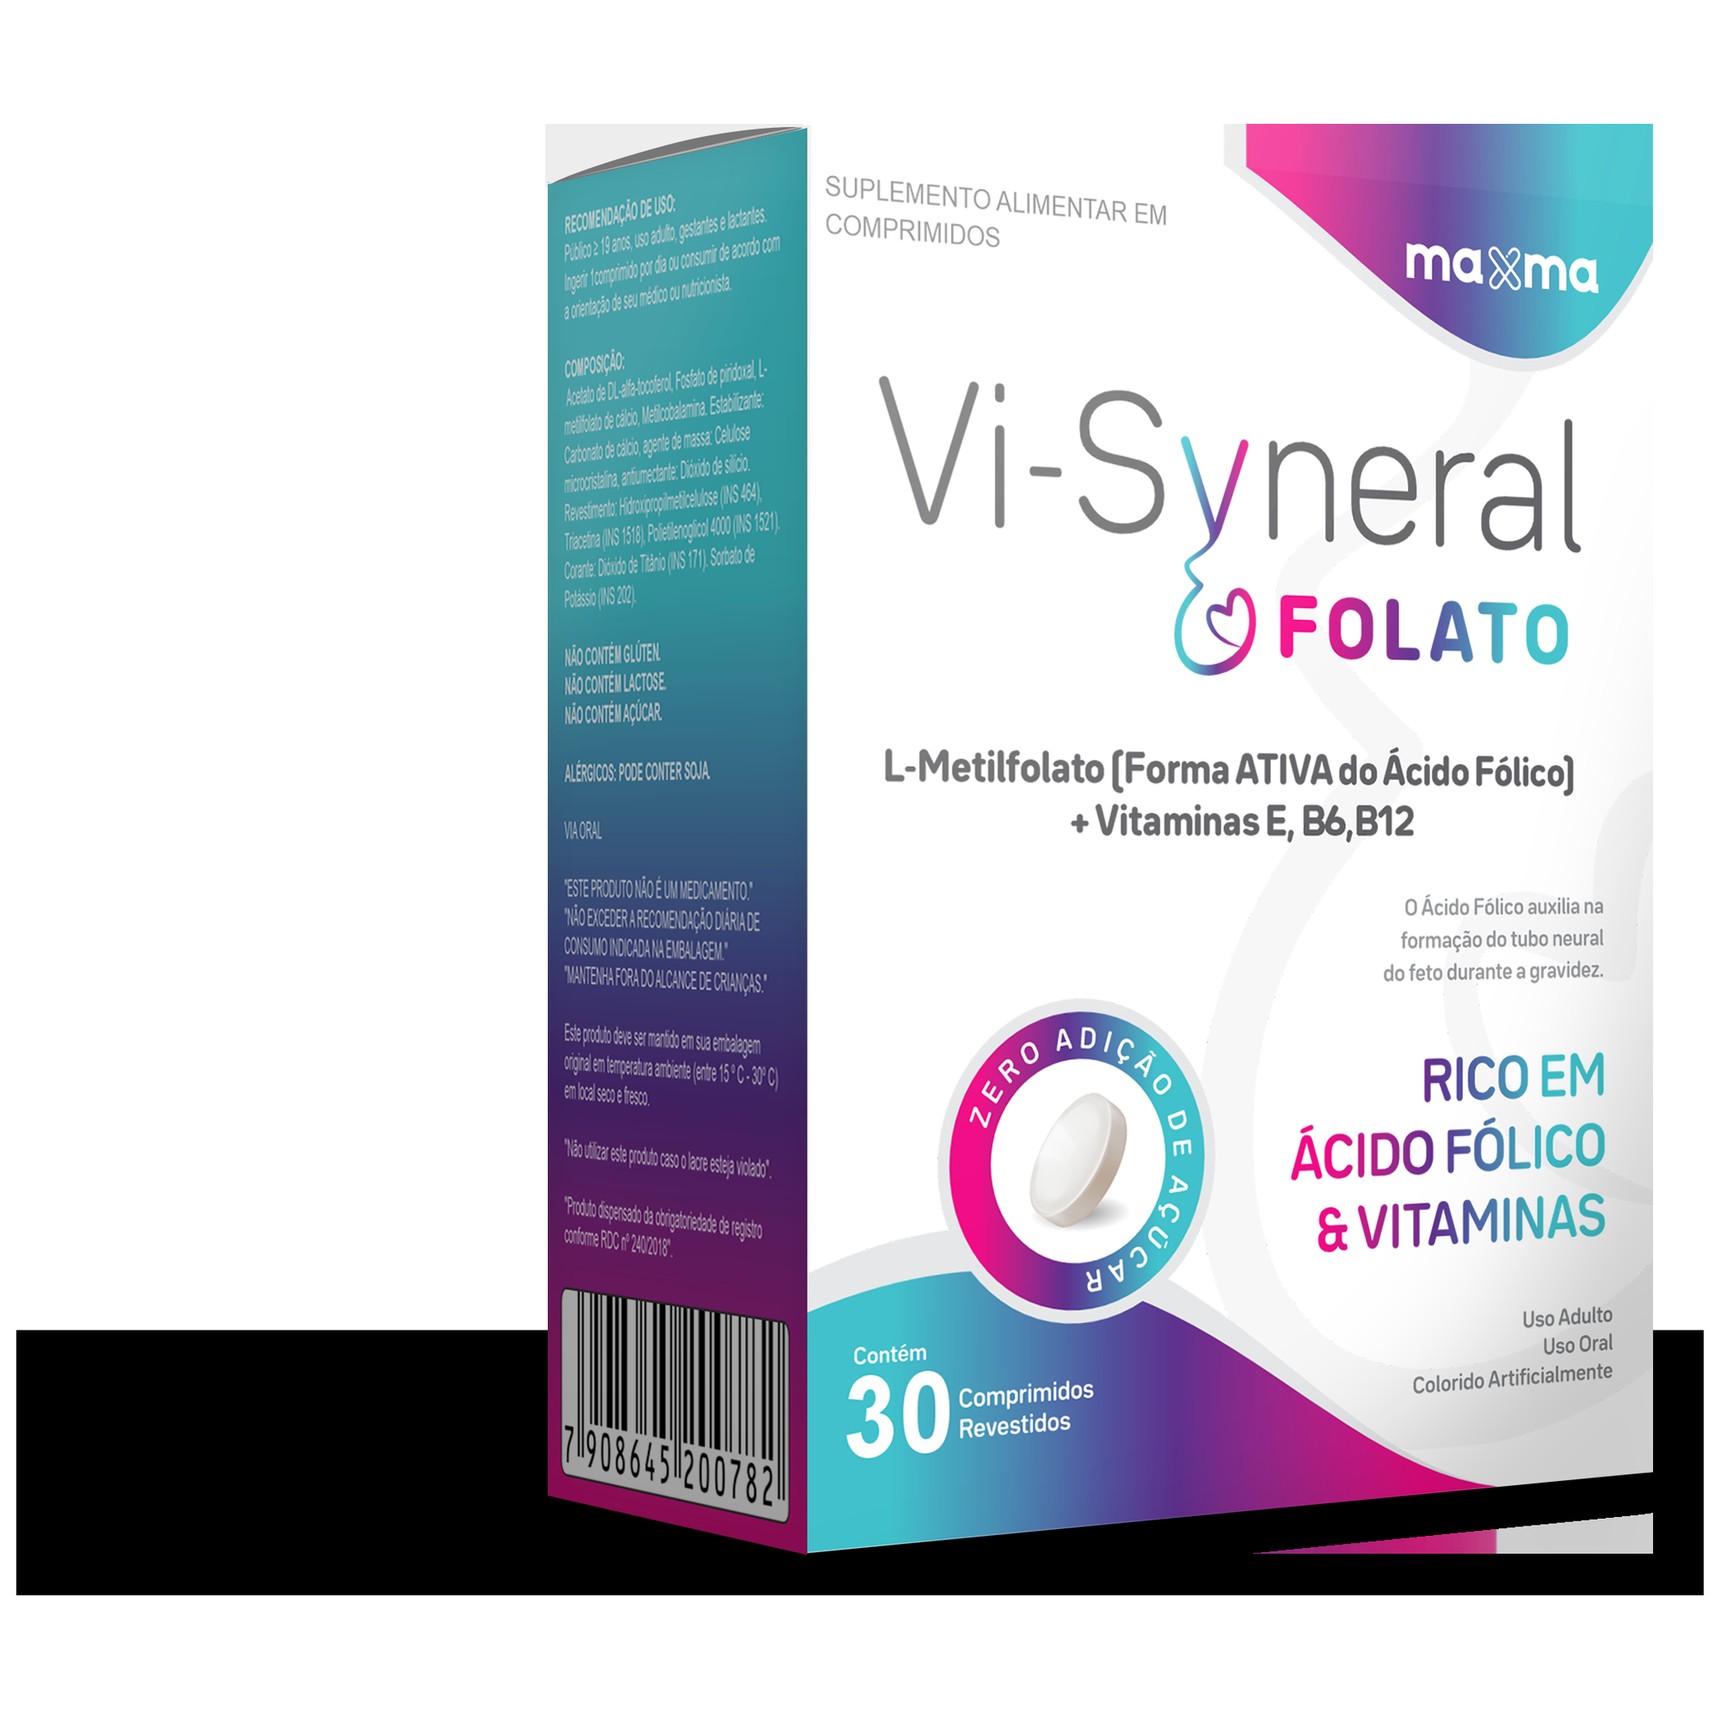
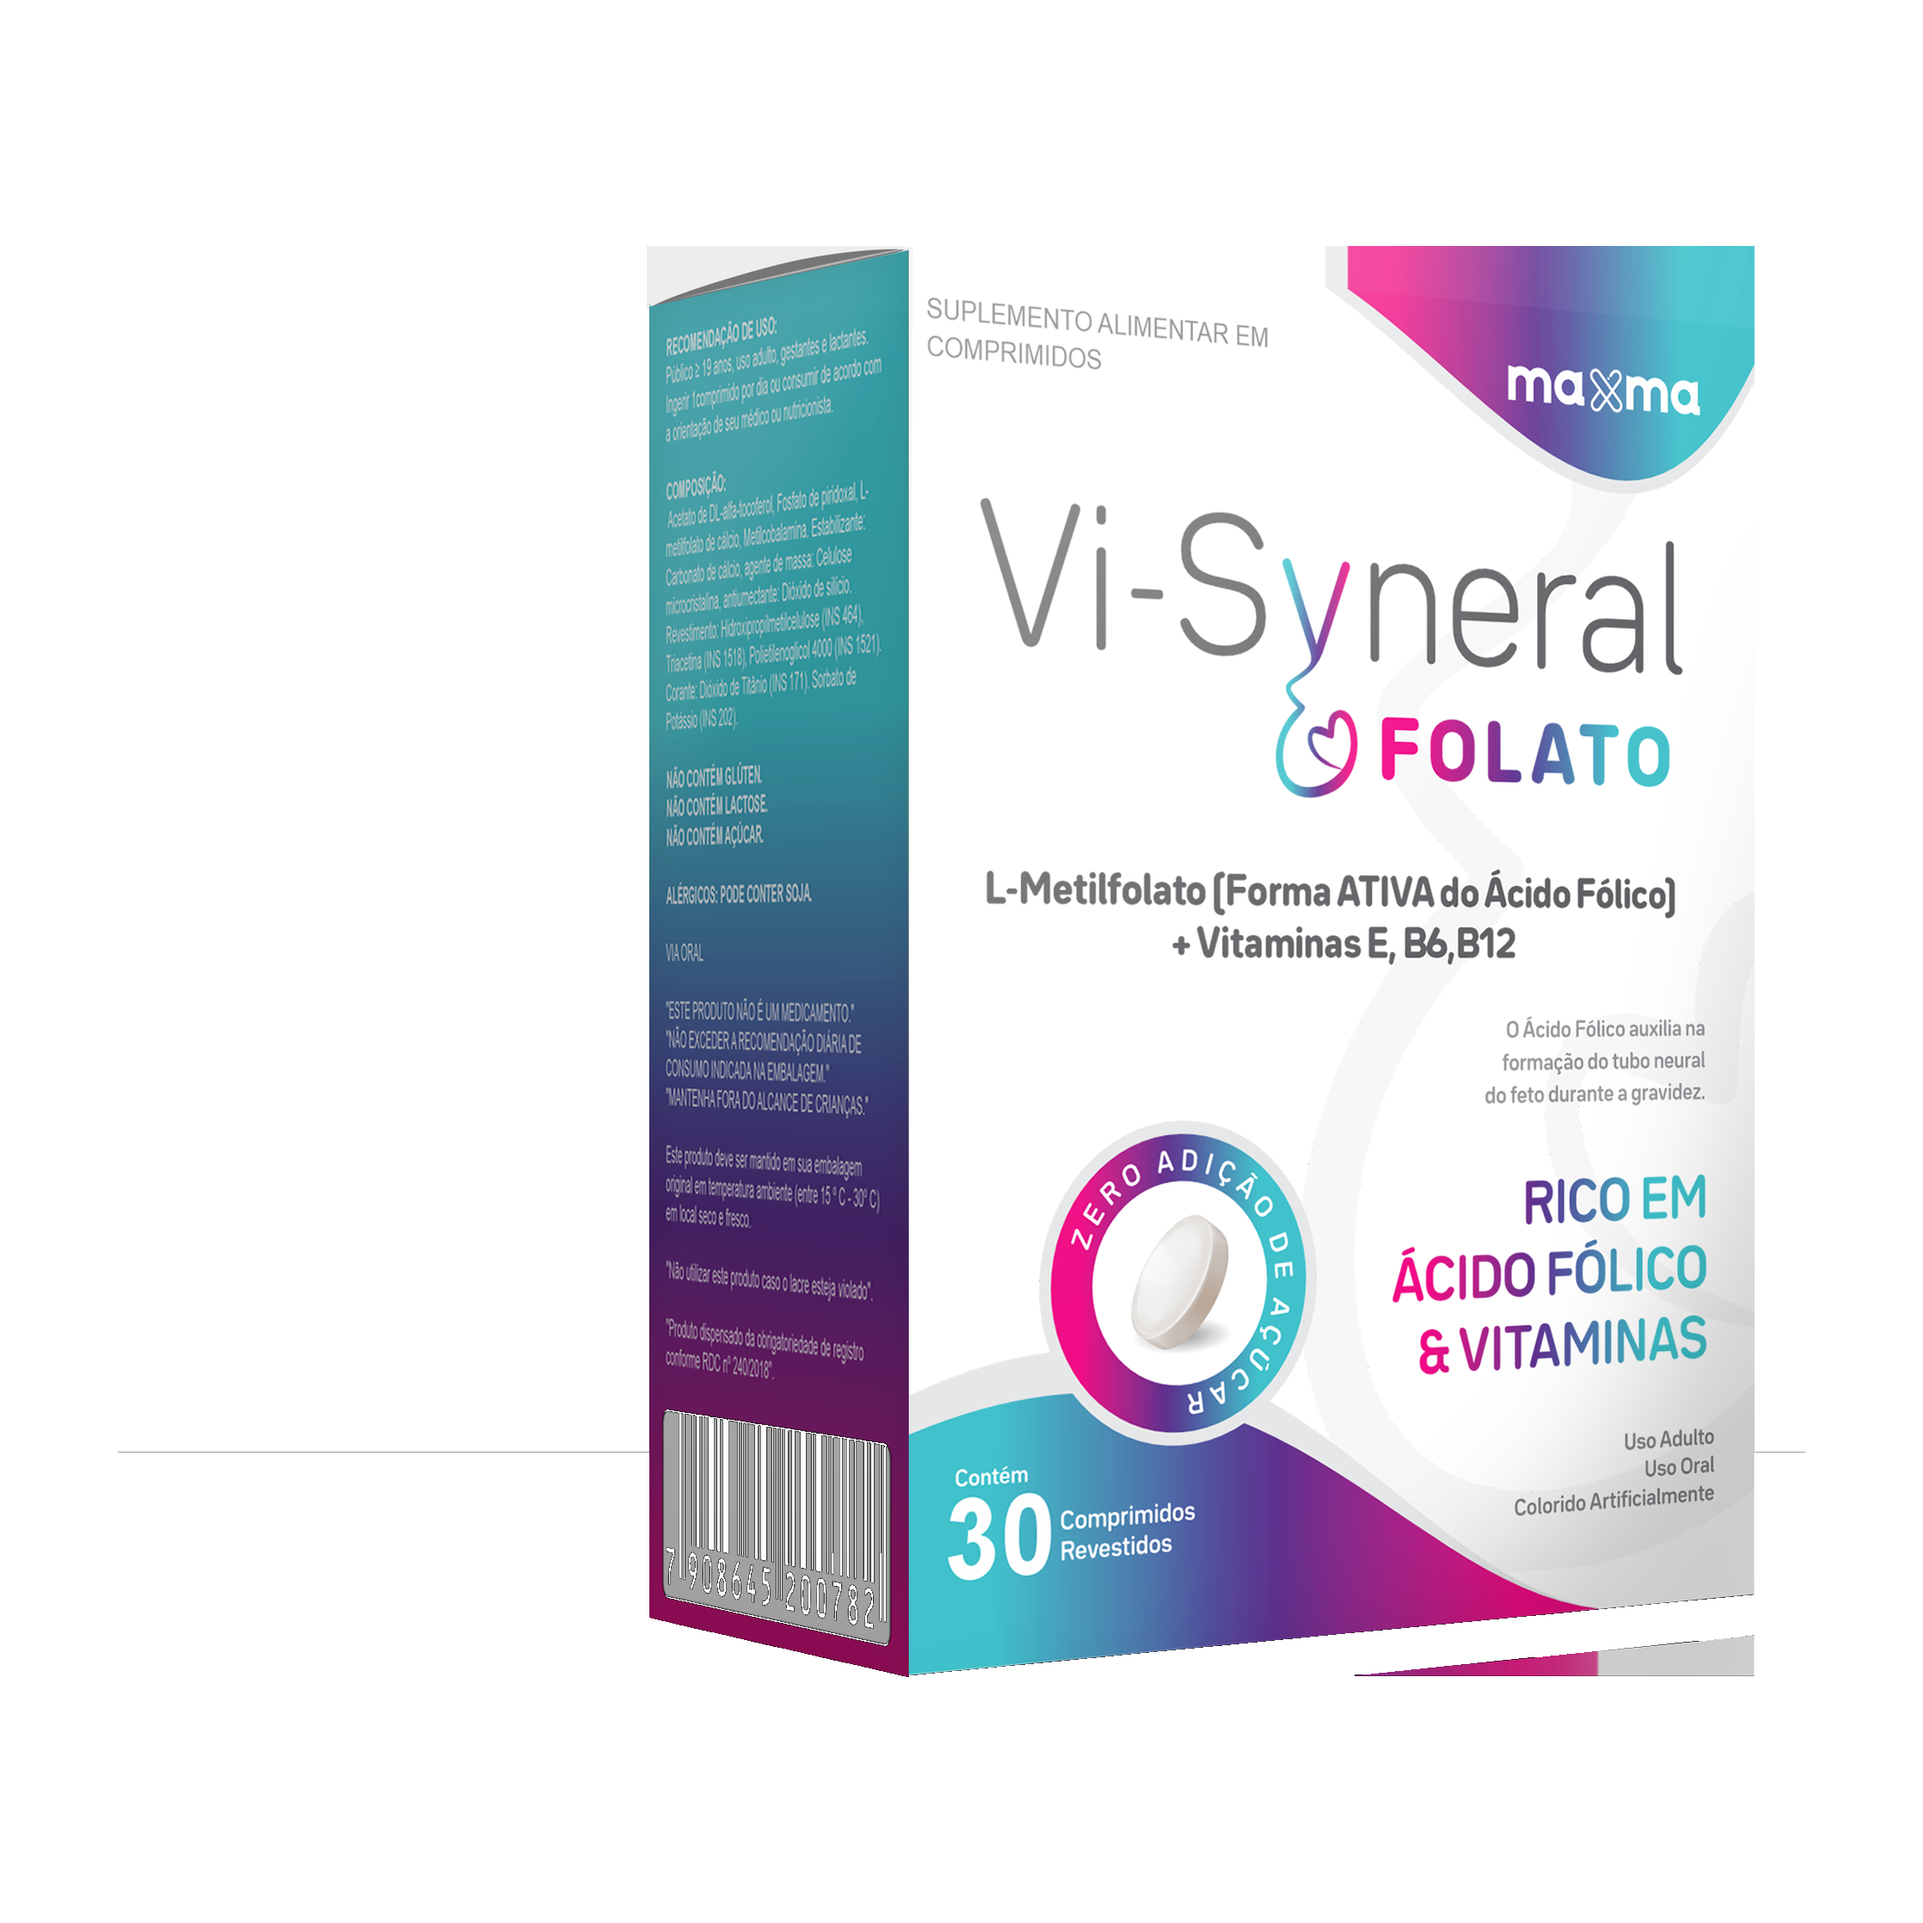
fix: imagens de produto proporcionais no card + tarja preta da Vi-Syneral
ProductCard: troca object-cover por object-contain + p-5, então o produto
inteiro cabe no card sem cortar as laterais (Mucolisil, Flebogenol,
Epatinon, Enzicoba, LacIntesty etc. estavam sendo cortados). Vi-Syneral
Folato: PNG tinha uma tarja preta na parte de baixo + bordas pretas —
reprocessado isolando o produto colorido e recentralizando em branco.

Claude-Session: https://claude.ai/code/session_0178pBvUSTjKGqQcYyaBFHYz

Changed region(s): [[0.0, 0.062, 0.992, 0.93]]

diff --git a/components/ProductCard.tsx b/components/ProductCard.tsx
@@ -34,7 +34,7 @@ function ProductCard({ product }: ProductCardProps) {
             alt={product.nome}
             fill
             sizes="(max-width: 640px) 50vw, (max-width: 1024px) 33vw, 25vw"
-            className="object-cover transition-transform duration-500 group-hover:scale-105"
+            className="object-contain p-5 transition-transform duration-500 group-hover:scale-105"
           />
         ) : (
           <div className="flex h-full flex-col items-center justify-center gap-3">
